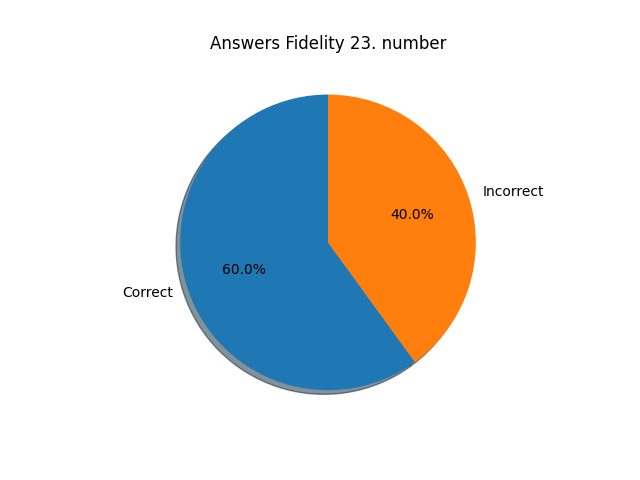
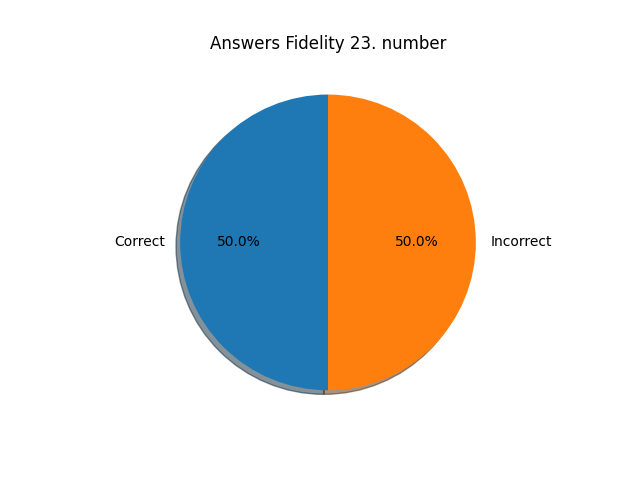
Finally added and completed statistics and graphics, so everything works up to date

diff --git a/CreateStatistics.py b/CreateStatistics.py
@@ -25,17 +25,19 @@ def answers_fidelity(correctAnswersCount, IncorrectAnswersCount, save_path, i, s
     plt.savefig(save_path)
     plt.close()
 
+
 def statistics(inputData, save_path, i):
     plt.suptitle(f'Question {i}', fontsize=18)
     plt.hist(inputData, bins=len(inputData) * 2, alpha=0.7, edgecolor='black')
     plt.yticks(np.arange(0, len(inputData) + 1, 1))
-    plt.savefig(save_path)  
+    plt.savefig(save_path)
     plt.close()
+
 
 def check_question_answers(question_answers, correct_answers):
     correct = 0
     incorrect = 0
-    print(question_answers, correct_answers)
+    # print(question_answers, correct_answers)
     for correct_answer, student_answer in zip(correct_answers, question_answers):
         print(student_answer, correct_answer, correct, incorrect)
         if student_answer == correct_answer:
@@ -43,6 +45,15 @@ def check_question_answers(question_answers, correct_answers):
         else:
             incorrect += 1
     return correct, incorrect
+
+
+def count_answers(data, num_questions):
+    answer_counts = [{} for _ in range(num_questions)]
+    for _, answers in data:
+        for i, answer in enumerate(answers):
+            answer_counts[i][answer] = answer_counts[i].get(answer, 0) + 1
+    return answer_counts
+
 
 def create_statistics(quiz_id):
     root = Tk()
@@ -54,13 +65,43 @@ def create_statistics(quiz_id):
     correct_answers = c_a.read_correct_answers(answer_directory)
 
     student_answers = s_a.get_student_answers('Student_answers', quiz_id)
+    number_of_questions = len(student_answers[0][1])
+    number_of_answers = count_answers(student_answers, number_of_questions)
+    print(number_of_answers)
+
+    answerrs = count_answers(student_answers, number_of_questions)
+
+    with open(os.path.join(os.path.dirname(__file__), 'Student_answers', 'correct_answers',
+                           f'{quiz_id}_correct_answers.txt')) as correct_answers_file:
+        correct_answers_content = correct_answers_file.readlines()
+
+        # Assume correct answers are in the same order as the questions
+    correct_answers = [answer.strip() for answer in correct_answers_content]
+    # print("aaa", student_answers)
     for i, (student_id, answers) in enumerate(student_answers, start=1):
-        save_path_statistics = os.path.dirname(__file__) + f'/Statistics/statistic_{i}.png'
-        statistics(answers, save_path_statistics, i)
         correct_count, incorrect_count = check_question_answers(answers, correct_answers)
         save_path_diagrams = os.path.dirname(__file__) + f'/Diagrams/diagrams_{student_id}.png'
-        print(correct_count, incorrect_count)
         answers_fidelity(correct_count, incorrect_count, save_path_diagrams, i, student_id)
 
-    print("Histograms saved successfully!")
+    for i, counts in enumerate(answerrs, start=1):
+        labels = list(counts.keys())
+        values = list(counts.values())
 
+        plt.figure(figsize=(8, 6))
+        plt.bar(labels, values, color=['blue', 'orange', 'green', 'red'])
+        plt.title(f'Question {i} Answer Distribution')
+        plt.xlabel('Answers')
+        plt.ylabel('Count')
+
+        save_path_statistics = os.path.dirname(__file__) + f'/Statistics'
+        if not os.path.exists(save_path_statistics):
+            os.makedirs(save_path_statistics)
+
+        save_path = os.path.join(save_path_statistics, f'statistic_q{i}.png')
+        plt.savefig(save_path)
+        plt.close()
+        print(f'Saved histogram for Question {i} at: {save_path}')
+
+
+create_statistics('1')
+print("Histograms saved successfully!")

diff --git a/student_answers.py b/student_answers.py
@@ -10,7 +10,6 @@ def get_student_answers(directory, quiz_id):
     current_directory = os.path.join(os.path.dirname(__file__), directory)
     answers_2d_array = []
     filename = f'{quiz_id}_combined.txt'
-    print(filename, quiz_id)
     with open(os.path.join(current_directory, filename), 'r') as file:
         first_line = file.readline().strip()
         student_id_match = re.match(r'\d+', first_line)
@@ -20,7 +19,6 @@ def get_student_answers(directory, quiz_id):
             for line in file:
                 line = line.strip()
                 if line.isdigit():
-                    # If the line contains a student ID, save the previous student's data
                     answers_2d_array.append([student_id, student_answers])
                     student_id = int(line)
                     student_answers = []
@@ -29,34 +27,38 @@ def get_student_answers(directory, quiz_id):
 
             if student_id is not None:
                 answers_2d_array.append([student_id, student_answers])
+
     return answers_2d_array
+
 
 def combine_student_answers(directory):
     filenames = os.listdir(directory)
     quiz_files = {}
 
     for filename in filenames:
-        if filename.endswith('.txt'):
-            quiz_id, student_id = filename.split('_')
-            quiz_files.setdefault(quiz_id, []).append(filename)
+        if filename.endswith('.txt') and filename != '1_combined.txt':
+            parts = filename.split('_')
+            if len(parts) == 2:
+                quiz_id, student_id = parts
+                quiz_files.setdefault(quiz_id, []).append(filename)
 
     for quiz_id, files in quiz_files.items():
         combined_filename = f'{quiz_id}_combined.txt'
-        print(combined_filename, quiz_id)
         with open(os.path.join(directory, combined_filename), 'w') as combined_file:
             for filename in files:
-                if((filename.split('_')[1].split('.')[0]).isdigit()):
-                    student_id = filename.split('_')[1].split('.')[0]
-                    print(student_id)
-                    combined_file.write(f'{student_id}\n')
-                    with open(os.path.join(directory, filename), 'r') as student_file:
-                        combined_file.write(student_file.read())
+                student_id = filename.split('_')[1].split('.')[0]
+                combined_file.write(f'{student_id}\n')  # Write student ID
+                with open(os.path.join(directory, filename), 'r') as student_file:
+                    combined_file.write(student_file.read().strip() + '\n')  # Write student answers
+                print(f'Added answers for student {student_id} from file {filename}')
+        print(f'Combined answers for quiz {quiz_id} into file {combined_filename}')
 
-combine_student_answers('Student_answers/')
+#combine_student_answers('Student_answers/')
 
-file_path = "Student_answers"
-answers_2d_array = get_student_answers(file_path, quiz_id=1)
-print(answers_2d_array)
+
+#file_path = "Student_answers"
+#answers_2d_array = get_student_answers(file_path, quiz_id=1)
+#print(answers_2d_array)
 #for i, (student_id, answers) in enumerate(answers_2d_array, start=1):
     #print(f"Student {student_id} answers: {answers}")
 

diff --git a/correct_answers.py b/correct_answers.py
@@ -11,5 +11,5 @@ def read_correct_answers(directory):
             answers.append(line.strip())
     return answers
 
-read_correct_answers("/Student_answers/correct_answers/1_correct_answers")
+#read_correct_answers("/Student_answers/correct_answers/1_correct_answers")
 
